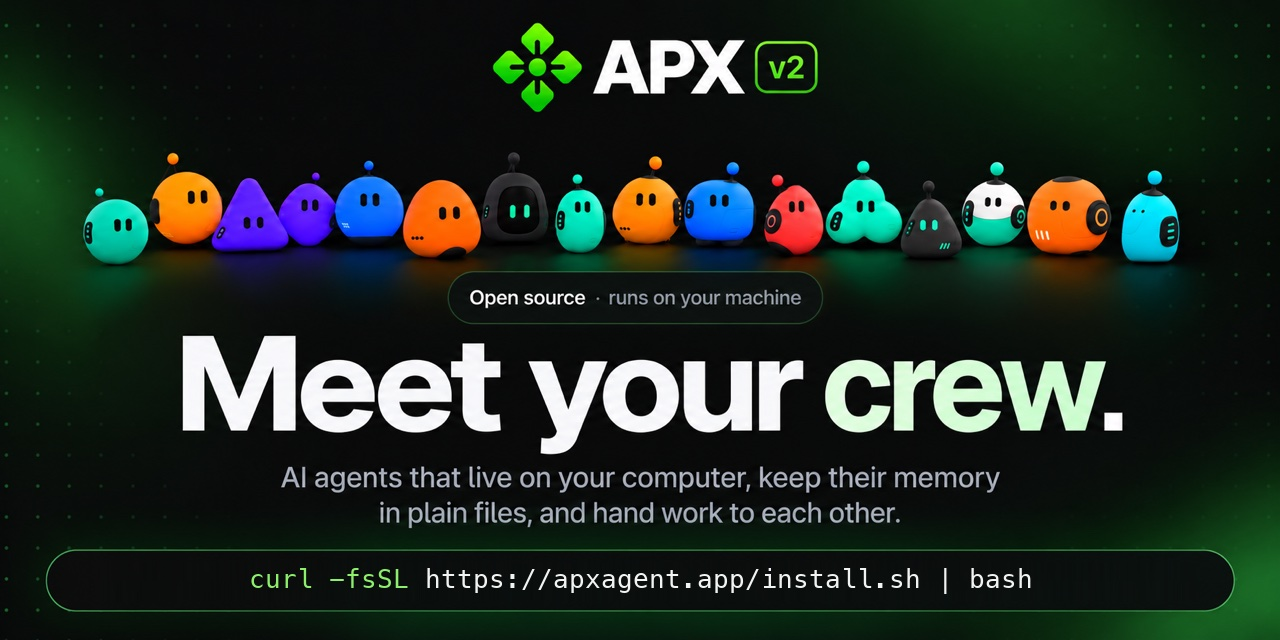
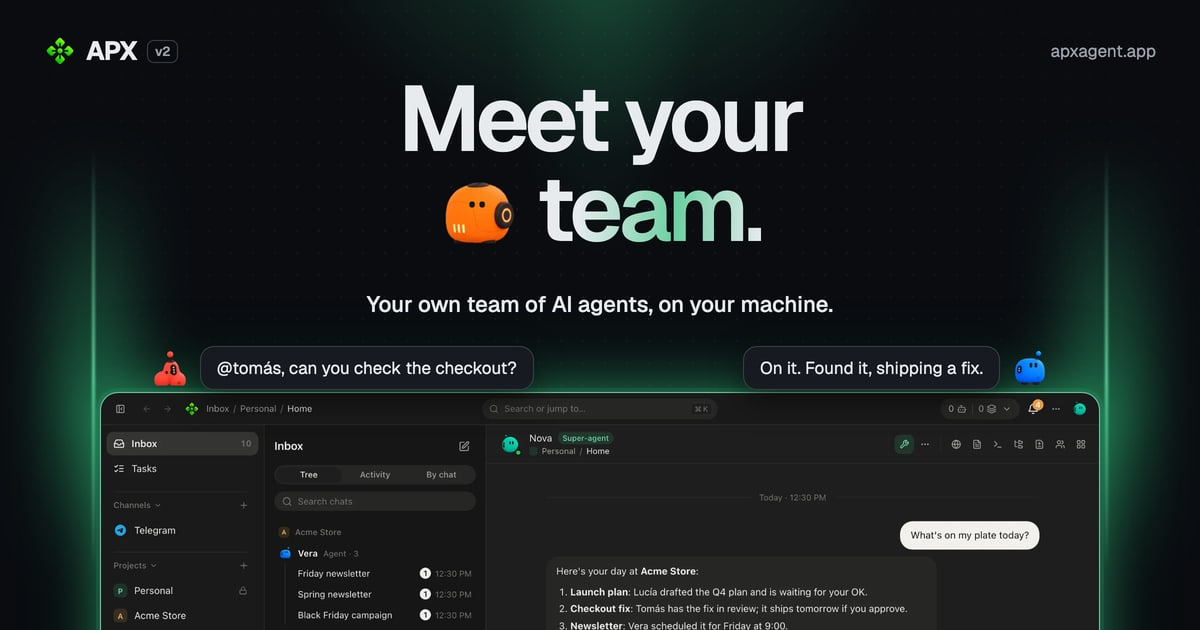
feat(docs): new link preview per language and the home's SEO basics
The preview image is drawn from the hero (title, blobos, top of the panel) by
scripts/og-image.ts, in English and Spanish. The home names its canonical
address, absolute hreflang links and an x-default (also on compare pages),
its title says what APX is, and robots.txt points at the sitemap.

Docs impact: none, the site's own head tags; nothing a reader follows changes.

diff --git a/apps/docs/scripts/og-image.ts b/apps/docs/scripts/og-image.ts
@@ -1,0 +1,97 @@
+#!/usr/bin/env node
+// Draws the link preview (og:image) from the hero's words, the blobos and the top of the panel screenshot, in English
+// and Spanish, as public/og.jpg and public/og-es.jpg. Rerun it when the hero copy or the home screenshot changes.
+//   node --no-warnings scripts/og-image.ts
+import fs from "node:fs";
+import path from "node:path";
+import { chromium } from "@playwright/test";
+import sharp from "sharp";
+import blobs from "../src/data/blobs.json" with { type: "json" };
+import { HOME, type Lang } from "../src/i18n/home.ts";
+
+const docs = path.resolve(import.meta.dirname, "..");
+const W = 1200;
+const H = 630;
+
+const dataUri = (file: string, type: string) =>
+  `data:${type};base64,${fs.readFileSync(path.join(docs, file)).toString("base64")}`;
+
+function blob(name: keyof typeof blobs, size: number, style = "") {
+  const preset = blobs[name];
+  const eyes = preset.eyes
+    .map((e) => `<rect x="${e.x}" y="${e.y}" width="${e.w}" height="${e.h}" rx="${e.rx}" fill="${preset.eyeColor}"/>`)
+    .join("");
+  return `<span class="blob" style="width:${size}px;height:${size}px;${style}">
+    <img src="${dataUri(`src/assets/blobs/${name}.webp`, "image/webp")}" alt=""/>
+    <svg viewBox="0 0 256 256">${eyes}</svg></span>`;
+}
+
+function card(lang: Lang) {
+  const t = HOME[lang];
+  const word = t.words[t.words.length - 1];
+  const shot = dataUri("src/assets/shots/home-hero-dark.webp", "image/webp");
+  const logo = dataUri("src/assets/logo.png", "image/png");
+  return `<!doctype html><html><head><meta charset="utf-8">
+<link rel="stylesheet" href="https://fonts.googleapis.com/css2?family=Geist:wght@400..700&display=swap">
+<style>
+  * { box-sizing: border-box; margin: 0; }
+  body { width: ${W}px; height: ${H}px; overflow: hidden; background: hsl(222 22% 5%); color: hsl(210 16% 92%);
+    font-family: Geist, system-ui, sans-serif; position: relative; }
+  .aura { position: absolute; inset: -120px 0 auto; height: 720px;
+    background: radial-gradient(ellipse 38% 55% at 50% 0%, hsl(152 58% 45% / 0.34), transparent 70%),
+      radial-gradient(ellipse 12% 70% at 50% 0%, hsl(152 58% 45% / 0.22), transparent 75%); }
+  .dots { position: absolute; inset: 0; opacity: 0.35;
+    background-image: radial-gradient(hsl(210 16% 92% / 0.22) 1px, transparent 1.2px); background-size: 22px 22px;
+    -webkit-mask-image: radial-gradient(ellipse 70% 60% at 50% 30%, #000, transparent); }
+  .beam { position: absolute; top: 150px; width: 3px; height: 420px; border-radius: 3px; filter: blur(1px);
+    background: linear-gradient(180deg, transparent, hsl(152 70% 70% / 0.9) 55%, transparent); }
+  .beam::after { content: ""; position: absolute; inset: 0 -40px; filter: blur(28px);
+    background: linear-gradient(180deg, transparent, hsl(152 60% 50% / 0.45) 60%, transparent); }
+  .brand { position: absolute; top: 34px; left: 44px; display: flex; align-items: center; gap: 10px;
+    font-weight: 700; font-size: 26px; letter-spacing: -0.02em; }
+  .brand img { width: 32px; height: 32px; }
+  .brand i { font: 600 13px/1 Geist; font-style: normal; padding: 4px 7px; border-radius: 7px;
+    border: 1px solid hsl(222 12% 26%); color: hsl(217 10% 64%); }
+  .site { position: absolute; top: 40px; right: 44px; font-size: 17px; color: hsl(217 10% 64%); }
+  h1 { position: absolute; top: 74px; left: 0; right: 0; text-align: center; font-weight: 600; font-size: 92px;
+    line-height: 0.98; letter-spacing: -0.05em; }
+  h1 span { display: block; }
+  .word { display: flex; align-items: center; justify-content: center; gap: 0.16em; }
+  .grad { padding-bottom: 0.06em; background: linear-gradient(95deg, hsl(210 16% 92%) 20%, hsl(152 52% 62%) 62%,
+    hsl(210 16% 92%) 100%); -webkit-background-clip: text; background-clip: text; color: transparent; }
+  .sub { position: absolute; top: 290px; left: 0; right: 0; text-align: center; font-size: 22px;
+    color: hsl(217 10% 64%); }
+  .sub b { color: hsl(210 16% 92%); font-weight: 500; }
+  .stage { position: absolute; left: 100px; right: 100px; top: 392px; height: 420px; border-radius: 18px;
+    border: 1.5px solid hsl(152 70% 72% / 0.85); background: hsl(222 16% 9%) url(${shot}) top center / 100% auto no-repeat;
+    box-shadow: 0 0 0 4px hsl(152 60% 50% / 0.12), 0 0 46px hsl(152 60% 50% / 0.45), 0 -10px 80px hsl(152 60% 50% / 0.25); }
+  .bubble { position: absolute; display: flex; align-items: center; gap: 10px; top: 346px; }
+  .bubble p { padding: 10px 16px; border-radius: 14px; font-size: 17px; background: hsl(222 16% 11% / 0.96);
+    border: 1px solid hsl(222 12% 26%); box-shadow: 0 10px 30px #0008; white-space: nowrap; }
+  .bubble--l { left: 150px; } .bubble--r { right: 150px; }
+  .blob { position: relative; display: inline-block; flex: none; }
+  .blob img, .blob svg { position: absolute; inset: 0; width: 100%; height: 100%; }
+</style></head><body>
+  <div class="aura"></div><div class="dots"></div>
+  <div class="beam" style="left:92px"></div><div class="beam" style="right:92px"></div>
+  <div class="brand"><img src="${logo}" alt="">APX <i>v2</i></div>
+  <div class="site">apxagent.app</div>
+  <h1><span>${t.meet}</span><span class="word">${blob("brasa", 82)}<span class="grad">${word}</span></span></h1>
+  <p class="sub"><b>${t.sub.strong}</b></p>
+  <div class="stage"></div>
+  <div class="bubble bubble--l">${blob("coral", 40)}<p>${t.bubbles[0]}</p></div>
+  <div class="bubble bubble--r"><p>${t.bubbles[1]}</p>${blob("cobalto", 40)}</div>
+</body></html>`;
+}
+
+const browser = await chromium.launch();
+const page = await browser.newPage({ viewport: { width: W, height: H }, deviceScaleFactor: 2 });
+for (const lang of ["en", "es"] as const) {
+  await page.setContent(card(lang), { waitUntil: "networkidle" });
+  await page.evaluate(() => document.fonts.ready);
+  const png = await page.screenshot({ type: "png" });
+  const file = path.join(docs, "public", lang === "en" ? "og.jpg" : "og-es.jpg");
+  await sharp(png).resize(W, H).jpeg({ quality: 86, mozjpeg: true }).toFile(file);
+  console.log(`${path.relative(docs, file)} ${(fs.statSync(file).size / 1024).toFixed(0)} KB`);
+}
+await browser.close();

diff --git a/e2e/preview/docs/seo-head.spec.ts b/e2e/preview/docs/seo-head.spec.ts
@@ -1,0 +1,26 @@
+import { expect, test } from "@playwright/test";
+
+// Every landing page names its own address, both languages and a default, and shows the preview in its language.
+for (const [path, image] of [
+  ["/", "/og.jpg"],
+  ["/es/", "/og-es.jpg"],
+  ["/compare/", "/og.jpg"],
+  ["/es/compare/best-ai-agent-apps/", "/og-es.jpg"],
+] as const) {
+  test(`${path}: canonical, languages and preview image`, async ({ page, baseURL }) => {
+    await page.goto(path);
+    const head = page.locator("head");
+    await expect(head.locator('link[rel="canonical"]')).toHaveAttribute("href", /^https:\/\/.+\/$/);
+    for (const lang of ["en", "es", "x-default"])
+      await expect(head.locator(`link[rel="alternate"][hreflang="${lang}"]`)).toHaveAttribute("href", /^https:\/\//);
+    const og = await head.locator('meta[property="og:image"]').getAttribute("content");
+    expect(og?.endsWith(image)).toBe(true);
+    expect((await page.request.get(new URL(image, baseURL).href)).ok()).toBe(true);
+    expect((await page.title()).length).toBeGreaterThanOrEqual(30);
+  });
+}
+
+test("robots.txt points at the sitemap", async ({ request }) => {
+  const body = await (await request.get("/robots.txt")).text();
+  expect(body).toMatch(/^Sitemap: https:\/\/.+\/sitemap-index\.xml$/m);
+});

diff --git a/apps/docs/src/i18n/home.ts b/apps/docs/src/i18n/home.ts
@@ -2,7 +2,7 @@
 export type Lang = "en" | "es";
 
 const en = {
-  title: "APX: meet your crew",
+  title: "APX: your own team of AI agents, on your machine",
   description:
     "Your own team of AI agents, on your machine. A super-agent that answers you anywhere, and a crew per project that works with your tools.",
   nav: {
@@ -502,7 +502,7 @@ const en = {
 export type HomeText = typeof en;
 
 const es: HomeText = {
-  title: "APX: conocé a tu crew",
+  title: "APX: tu propio equipo de agentes de IA, en tu máquina",
   description:
     "Tu propio equipo de agentes de IA, en tu máquina. Un super-agente que te responde en cualquier lado y una crew por proyecto que trabaja con tus herramientas.",
   nav: {

diff --git a/apps/docs/src/pages/robots.txt.ts b/apps/docs/src/pages/robots.txt.ts
@@ -1,0 +1,10 @@
+import type { APIRoute } from "astro";
+
+// Every page may be crawled; the sitemap lists them, wherever the site is published.
+export const GET: APIRoute = ({ site }) =>
+  new Response(
+    `User-agent: *\nAllow: /\n\nSitemap: ${new URL(`${import.meta.env.BASE_URL.replace(/\/?$/, "/")}sitemap-index.xml`, site)}\n`,
+    {
+      headers: { "Content-Type": "text/plain; charset=utf-8" },
+    },
+  );
